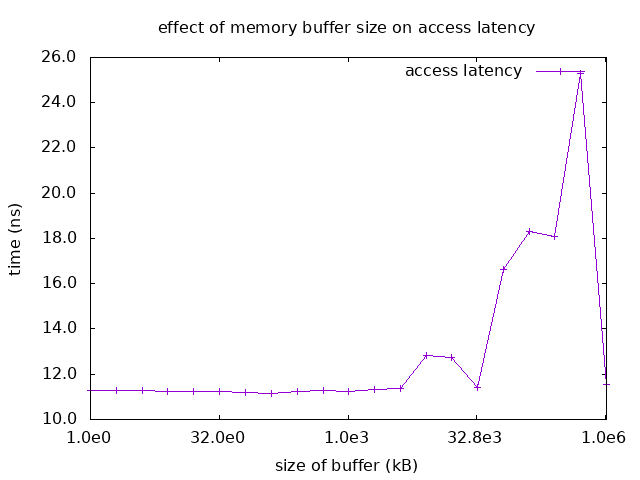
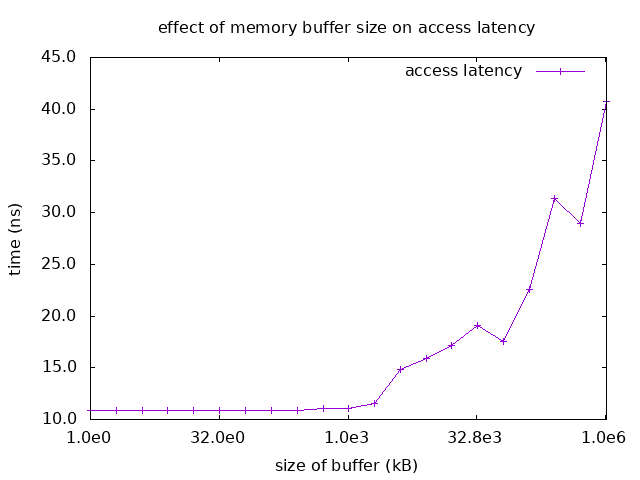
more tests, and scaled up buffer size range

diff --git a/hw1/part1.cpp b/hw1/part1.cpp
@@ -29,11 +29,11 @@ typedef __int32_t bufferunit; // big enough so that each
 // number of trials to use in calculating
 // the average latency
 //const int TRIALS = std::pow(2,28);
-const int TRIALS = std::pow(2,28);
+const unsigned TRIALS = std::pow(2,30);
 
 // buffer size constants
-const unsigned BUFFER_SIZE_BYTES_EXP_MIN = 10; // min exponent
-const unsigned BUFFER_SIZE_BYTES_EXP_MAX = 24; // max exponent
+const unsigned BUFFER_SIZE_BYTES_EXP_MIN = 30; // min exponent
+const unsigned BUFFER_SIZE_BYTES_EXP_MAX = 30; // max exponent
 const unsigned BUFFER_UNIT_SIZE_BYTES    = 32/8; // size of buffer entries
 
 // 2^i is the number of bytes in buffer
@@ -78,7 +78,7 @@ void measure_latency(bufferunit n, bool readable) {
     auto start = std::chrono::steady_clock::now();
 
     // measure the latency TRIALS times
-    for (int i = 0; i < TRIALS; i++) {
+    for (unsigned i = 0; i < TRIALS; i++) {
         // access an entry of the buffer,
         // also setting the next entry index
         // (yielded from previous random generation)
@@ -96,7 +96,7 @@ void measure_latency(bufferunit n, bool readable) {
     
     if (readable) {
         std::cout
-            << "size of buffer: "
+            << "size of buffer (rounded): "
                 << buffer_size_kilobytes << " kb\n"
             << "average latency: "
                 << latency_avg_nanosecs << " ns\n\n";
